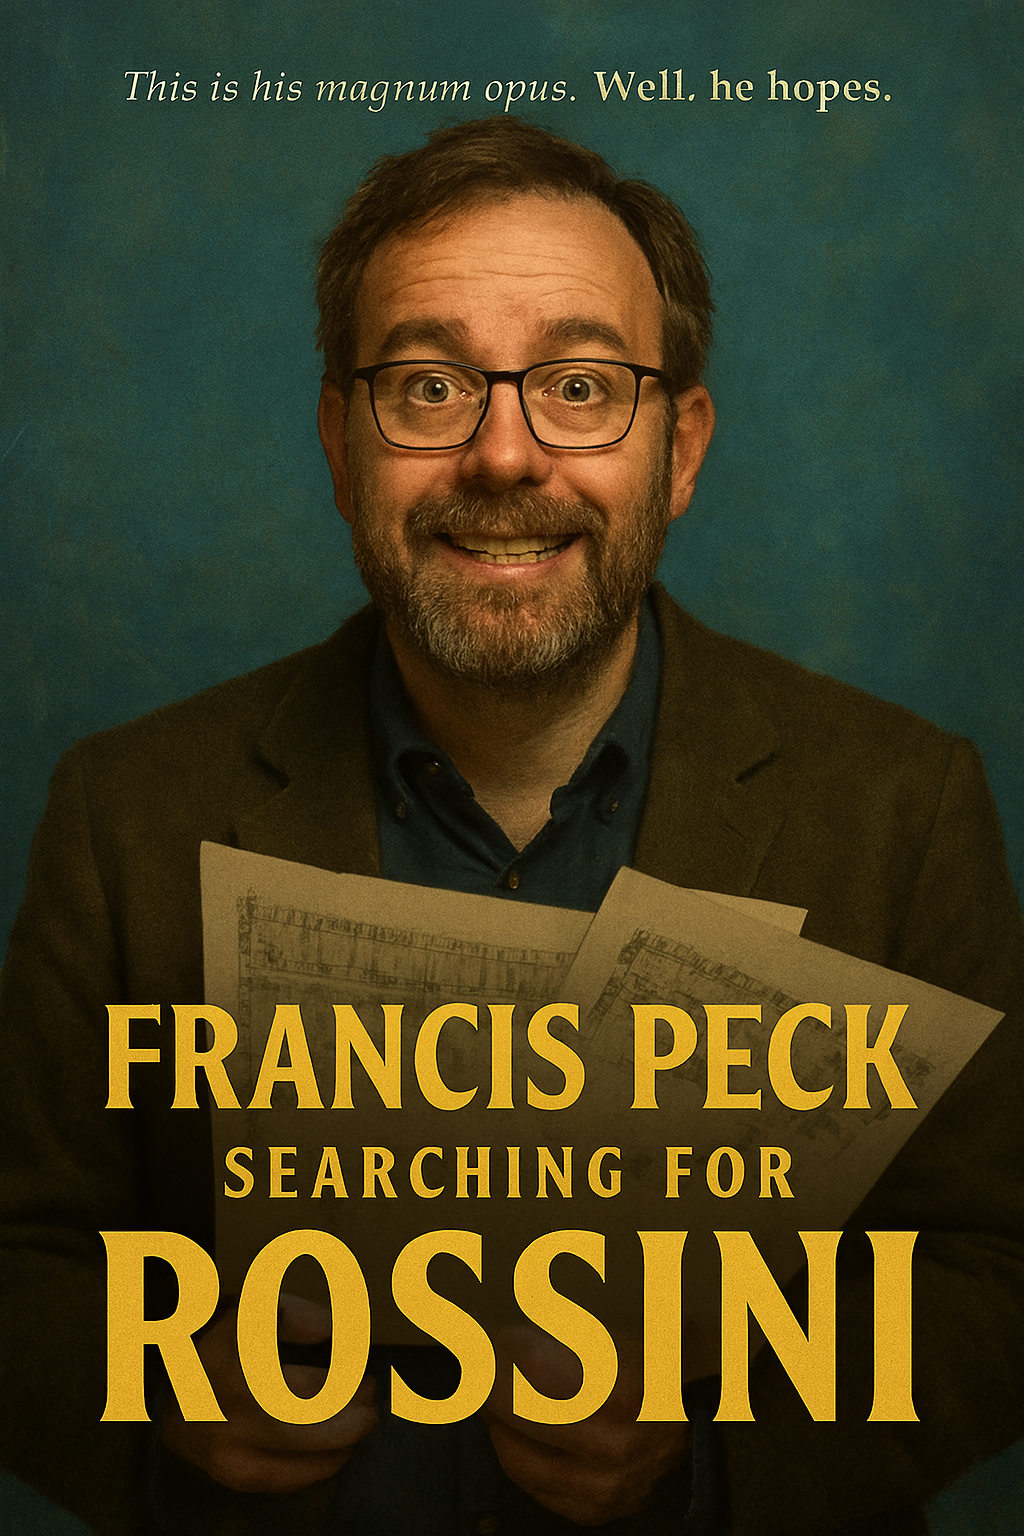
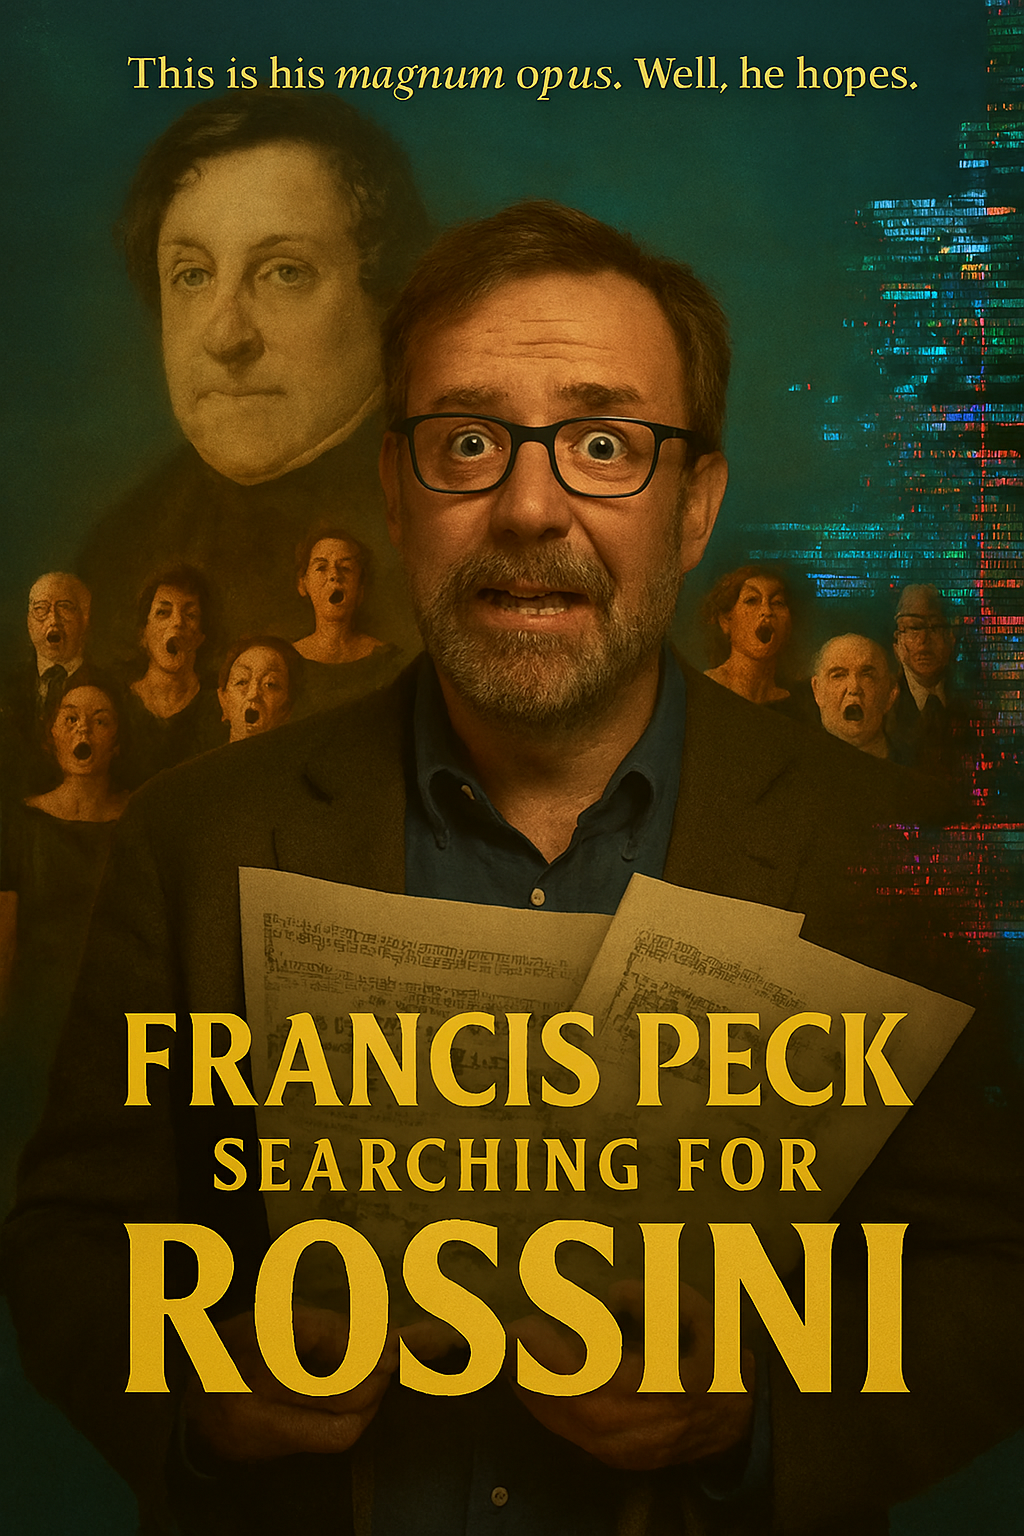
incorporated updated movie poster

diff --git a/book/movie.md b/book/movie.md
@@ -1,4 +1,5 @@
-Francis Peck: Searching for Rossini
+
+![Francis Peck: Searching for Rossini](images/movie_poster.png)
 
 Genre
 
